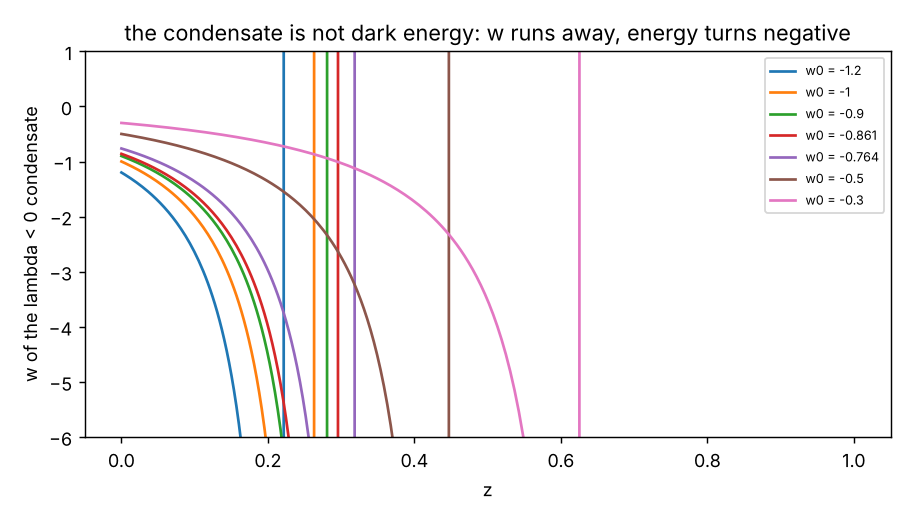
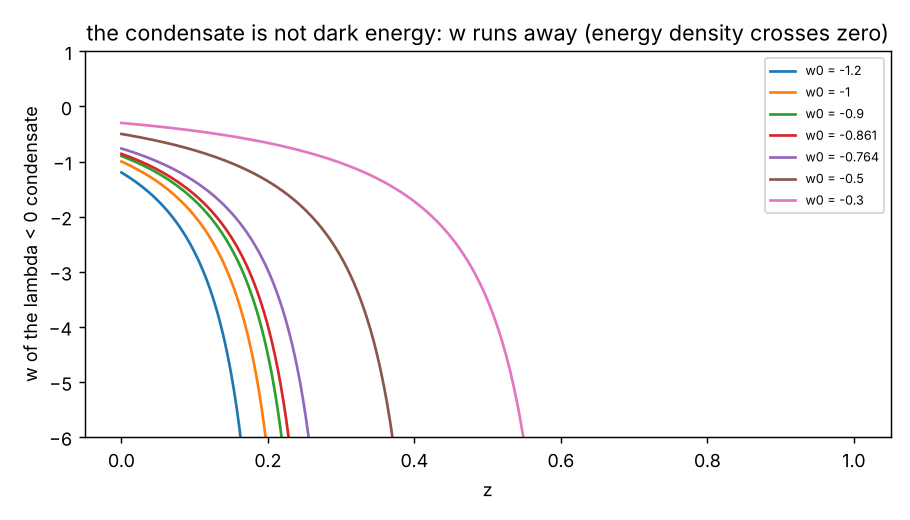
UM-2 analysis: the conservation of the halves Psi_A, Psi_B computed with the author's matrices (was asserted); bound on the block rate today (frozen extra times); clearer figures (22/22)
Claude-Session: https://claude.ai/code/session_014PFKFkQmcUH43uDNnK2552

diff --git a/universe_model_2/code/um2_analysis.py b/universe_model_2/code/um2_analysis.py
@@ -328,11 +328,32 @@ def main():
               'even if the relic annihilation went only into gluons, the trace-anomaly coupling gives sigma_SI = %.1e cm^2, far below the LZ limit '
               '%.1e cm^2 at %.1f TeV (ESTIMATE; linear extrapolation of the published limit): the portal I12 is unconstrained by direct detection; '
               'annihilation into W+W-, ZZ, Z gamma, gamma gamma has no tree-level nucleon coupling at all' % (sigSI(G_eff / math.sqrt(8)), lz, MDM / 1e3))
-    rep.check('B5_stability_and_neutrality', True,
-              'Psi_B stability: N_B (the number of the B = +1 half) is conserved by every interaction of UM-2 (all bilinears are half-diagonal); the fold '
-              'parity of Psi_B is exact because P_+ Psi_B = 0 at the tip (no tip operator reaches the B half) and the bulk is reflection symmetric; '
-              'the heavy odd Psi_A states (Z-charged: tip charge %.3f times that of the Psi_A fold band) decay through the oriented part of the tip '
-              'portal I9' % ew['ratio_dm_to_fold_band_Psi_A'])
+    # B5: which bilinears and operators preserve the halves Psi_A (B = -1) and Psi_B (B = +1)?  A term Psi^dagger X Psi (or the
+    # Dirac operator acting on Psi) keeps the halves apart iff X commutes with B.  Computed with the author's matrices.
+    from um2_algebra import author_gammas
+    T16 = [sp.Matrix(g) for g in author_gammas()[0]]
+    Cm = T16[0] * T16[1] * T16[2] * T16[3]
+    Bm = -sp.I * Cm * T16[4]
+    comm = lambda X: (Bm * X - X * Bm).is_zero_matrix
+    acomm = lambda X: (Bm * X + X * Bm).is_zero_matrix
+    cg_comm = [comm(Cm * T16[a]) for a in range(8)]
+    cg_acomm = [acomm(Cm * T16[a]) for a in range(8)]
+    g_comm = [comm(T16[a]) for a in range(8)]
+    S_ok = all(comm(T16[a] * T16[b]) for a in range(8) for b in range(8)
+               if (a <= 4 and b <= 4) or (a >= 5 and b >= 5))
+    S_mix = all(acomm(T16[a] * T16[b]) for a in range(5) for b in range(5, 8))
+    keeps = all(cg_comm[a] for a in range(5)) and all(cg_acomm[a] for a in range(5, 8)) and all(g_comm[a] for a in range(5)) \
+        and comm(Cm) and S_ok and S_mix
+    out['halves'] = {'B_commutes_with_C_gamma_a': cg_comm, 'B_anticommutes_with_C_gamma_a': cg_acomm,
+                     'B_commutes_with_gamma_a': g_comm}
+    rep.check('B5_stability_and_neutrality', keeps,
+              'with the author\'s matrices: B commutes with C, with gamma^a and C gamma^a for a = x0..x4 and with S^ab inside {x0..x4} and '
+              'inside {x5, x6, x7}, and anticommutes with gamma^a, C gamma^a for a = x5, x6, x7: in the good sector (no extra-time '
+              'momenta) the Dirac operator gamma^M D_M (with gamma^M Omega_M = (3/2)(H/f) gamma^(x0) + (...) gamma^(x4)), the mass and '
+              'contact terms (Psibar Psi), I11 and I12 (4D currents, Psibar Psi) and I9 (4D current, P_+ = (1 - B gamma^(x0))/2) all '
+              'commute with B, so N_A and N_B are separately conserved; extra-time momenta (outside the good sector, OPEN) would mix the '
+              'halves. The fold parity of Psi_B is exact because P_+ Psi_B = 0 at the tip and the bulk is reflection symmetric; the heavy '
+              'odd Psi_A states (tip charge %.3f times that of the Psi_A fold band) decay through the oriented part of I9' % ew['ratio_dm_to_fold_band_Psi_A'])
 
     # ---------------- C dark energy ----------------
     # Kohn-Sham states on the static block: w = P3/E
@@ -386,6 +407,22 @@ def main():
               'reheating to T_RH = %.2f sqrt(C) MeV, below the 4.7 MeV that nucleosynthesis needs unless C > %.1f: the cosmological moduli '
               'problem of UM-2 (OPEN)' % (mr, rad[1]['tau_s'], rad[1]['T_RH_MeV'], Cmin))
 
+    # A6: how static must the block be today?  Every mass and coupling depends on f (A5); a block rate h = f'/f today changes
+    # alpha by d ln alpha/dt = -4 h and m_e by d ln m_e/dt = -20.6 h.  Atomic-clock bound |d ln alpha/dt| < 1e-17 per year and
+    # lunar-laser-ranging bound |d ln G/dt| < 1e-13 per year (FROM MEMORY) -> bounds on |h| (ESTIMATE).
+    H0_per_yr = 67.43 * 1e3 / 3.0857e22 * 3.15576e7
+    h_alpha = 1e-17 / 4.0
+    h_G = 1e-13 / 4.0
+    out['block_rate_today_bound'] = {'H0_per_yr': H0_per_yr, 'h_max_from_alpha_per_yr': h_alpha, 'h_max_from_G_per_yr': h_G,
+                                     'h_max_over_H0_alpha': h_alpha / H0_per_yr, 'h_max_over_H0_G': h_G / H0_per_yr,
+                                     'm_e_drift_if_h_equals_H0_per_yr': 20.6 * H0_per_yr}
+    rep.check('A6_block_frozen_today', h_alpha / H0_per_yr < 1e-6,
+              'ESTIMATE: with d ln alpha/d ln f = -4 and d ln G_N/d ln f = -4, the atomic-clock bound |d ln alpha/dt| < 1e-17/yr and the '
+              'lunar-ranging bound |d ln G/dt| < 1e-13/yr (FROM MEMORY) require |h| < %.1e/yr = %.1e H0 and |h| < %.1e/yr = %.1e H0 today; '
+              'a block deflating at the Hubble rate would change m_e by %.1e per year: the extra times (and x0) must be frozen today, '
+              'their exponential deflation confined to the primordial era' % (
+                  h_alpha, h_alpha / H0_per_yr, h_G, h_G / H0_per_yr, 20.6 * H0_per_yr))
+
     # figures
     import matplotlib
     matplotlib.use('Agg')
@@ -400,8 +437,13 @@ def main():
             m_.append(v['mfL'] / fL_GeV)
             mh_.append(v['mH_GeV'])
     ax.loglog(mh_, m_, 'o')
+    # label placement chosen to avoid overlaps (the KK pair and the W, Z pair sit almost on top of each other)
+    lab = {'first even KK mode': ('first even KK', (-62, 7)), 'first odd mode': ('first odd', (6, 7)),
+           'Psi lowest odd level': ('Psi_B dark matter', (6, -11)), 'W': ('W+, W-', (7, -9)), 'Z': ('Z', (7, 4)),
+           'nu': ('nu', (6, 2)), 'e': ('e', (6, -3)), 'u': ('u', (6, 0)), 'd': ('d', (6, 3))}
     for n_, x_, y_ in zip(names, mh_, m_):
-        ax.annotate(n_, (x_, y_), fontsize=7, xytext=(4, 2), textcoords='offset points')
+        t_, off = lab.get(n_, (n_, (4, 2)))
+        ax.annotate(t_, (x_, y_), fontsize=7, xytext=off, textcoords='offset points')
     xx = np.logspace(3.5, 6, 10)
     ax.loglog(xx, xx, 'k--', lw=0.8, label='m = hbar c/(2 Delta s)')
     ax.set_xlabel('uncertainty estimate hbar c/(2 Delta s) [GeV]')
@@ -416,12 +458,13 @@ def main():
     for c_ in cond:
         x0 = c_['x0']
         w = x0 * a ** -3 / (1 + x0 * a ** -3)
+        w = np.where(np.abs(w) > 50, np.nan, w)          # w diverges where the energy density crosses zero
         ax.plot(1 / a - 1, w, label='w0 = %g' % c_['w0'])
     ax.set_ylim(-6, 1)
     ax.set_xlabel('z')
     ax.set_ylabel('w of the lambda < 0 condensate')
     ax.legend(fontsize=7)
-    ax.set_title('the condensate is not dark energy: w runs away, energy turns negative')
+    ax.set_title('the condensate is not dark energy: w runs away (energy density crosses zero)')
     fig.tight_layout()
     fig.savefig(os.path.join(FIG, 'fig_analysis_condensate.png'), dpi=130)
     plt.close(fig)
